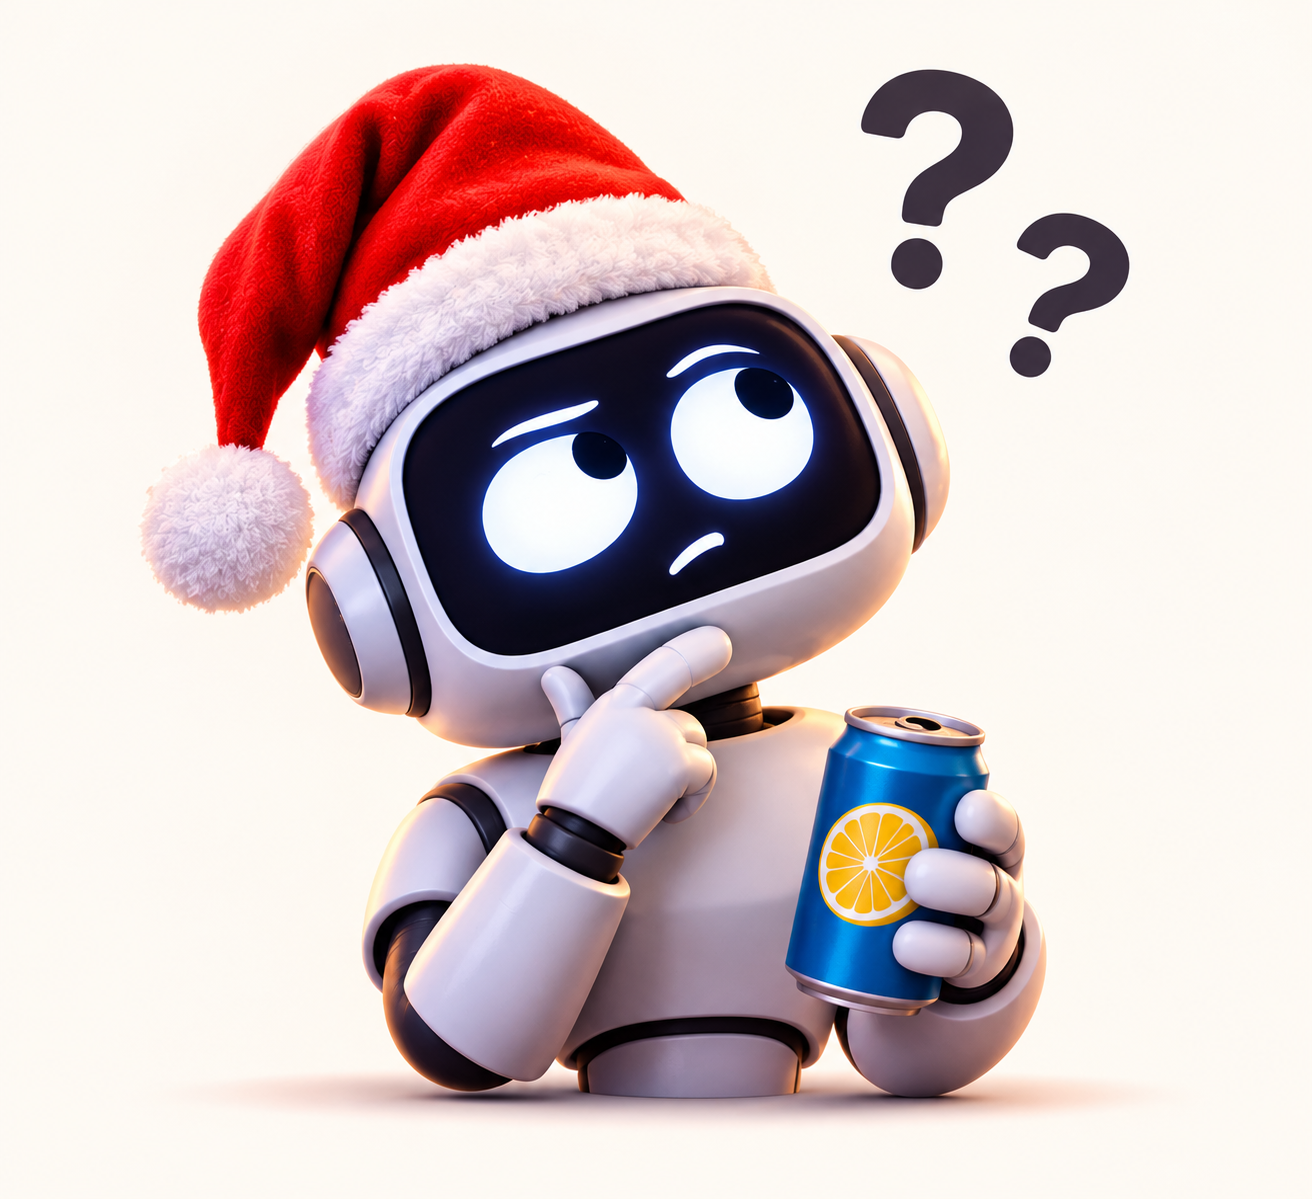
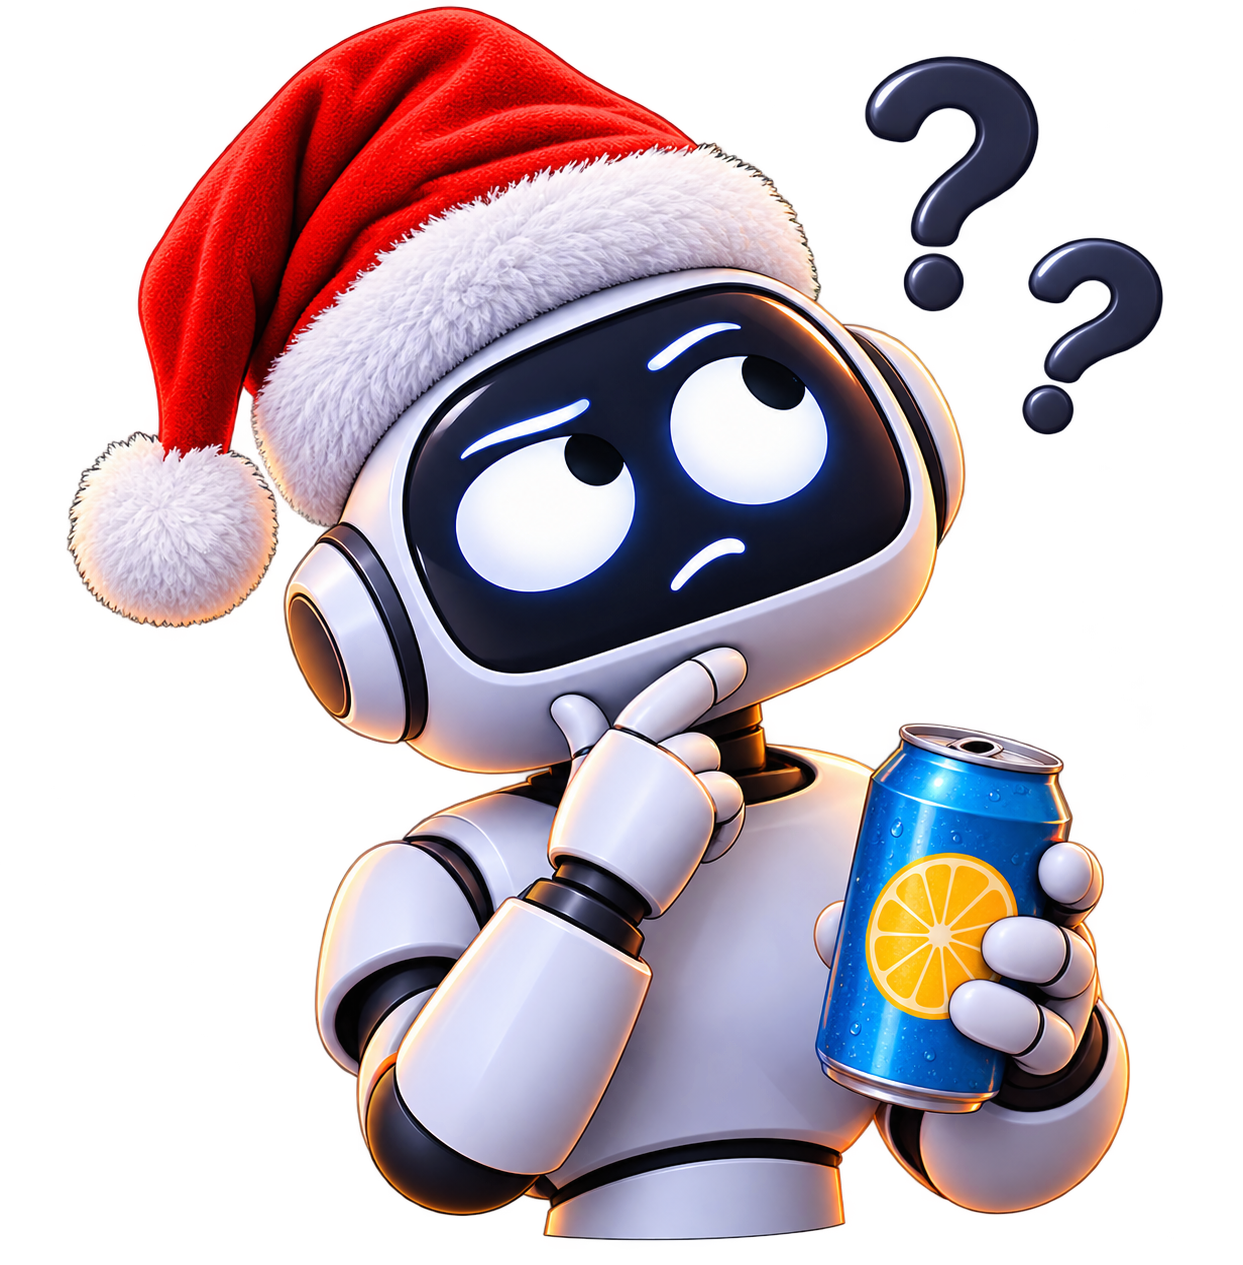
Vaihda etusivun maskotiksi robot.png ja poista badge

diff --git a/maskotti-etusivu.html b/maskotti-etusivu.html
@@ -179,18 +179,10 @@
       <img
         id="mascotImg"
         class="mascot"
-        src="public/pikkujouluvisa-hahmo.svg"
-        alt="Pikkujouluvisan maskotti: silmälasipäinen IT-hahmo joulupukinhatussa miettii vastausta"
-        width="620" height="820"
+        src="public/robot.png"
+        alt="Pikkujouluvisan maskotti: joulupukinhatussa oleva robotti miettii vastausta pitäen kädessään juomapulloa"
+        width="1312" height="1199"
       >
-      <p class="chip">
-        <svg viewBox="0 0 24 24" fill="none" stroke="currentColor" stroke-width="2"
-          stroke-linecap="round" stroke-linejoin="round" aria-hidden="true" style="width:1rem;height:1rem">
-          <path d="M9.937 15.5A2 2 0 0 0 8.5 14.063l-6.135-1.582a.5.5 0 0 1 0-.962L8.5 9.936A2 2 0 0 0 9.937 8.5l1.582-6.135a.5.5 0 0 1 .963 0L14.063 8.5A2 2 0 0 0 15.5 9.937l6.135 1.581a.5.5 0 0 1 0 .964L15.5 14.063a2 2 0 0 0-1.437 1.437l-1.582 6.135a.5.5 0 0 1-.963 0z"/>
-          <path d="M20 3v4"/><path d="M22 5h-4"/><path d="M4 17v2"/><path d="M5 18H3"/>
-        </svg>
-        Pikkujoulut 2026
-      </p>
       <h1>
         <span>Pikkujoulu</span><span class="accent">visa</span>
       </h1>
@@ -266,13 +258,13 @@
       <p>
         Tämä tiedosto renderöi etusivun <span class="code">src/app/page.tsx</span> tyyleillä, jotta näet
         miltä maskotti näyttää etusivulla. Käytössä on sama kuva kuin oikealla etusivulla:
-        <span class="code">public/pikkujouluvisa-hahmo.svg</span>. Vaihda kokoa vieressä – muutos näkyy heti yllä.
+        <span class="code">public/robot.png</span>. Vaihda kokoa vieressä – muutos näkyy heti yllä.
       </p>
       <div class="controls">
         <label>Koko
           <select id="sizeSelect">
             <option value="8rem">pieni (w-32, mobiili)</option>
-            <option value="10rem" selected>oletus (w-40, sm)</option>
+            <option value="12rem" selected>oletus (w-48, sm)</option>
             <option value="14rem">suuri (w-56)</option>
             <option value="20rem">näyttävä (w-80)</option>
           </select>
